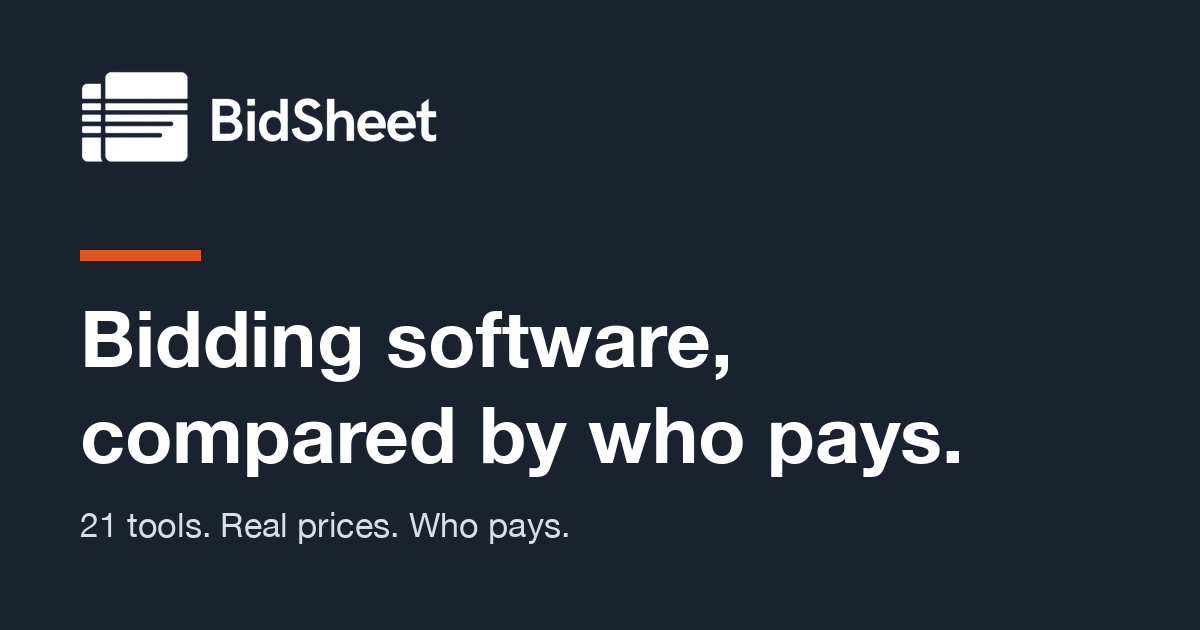
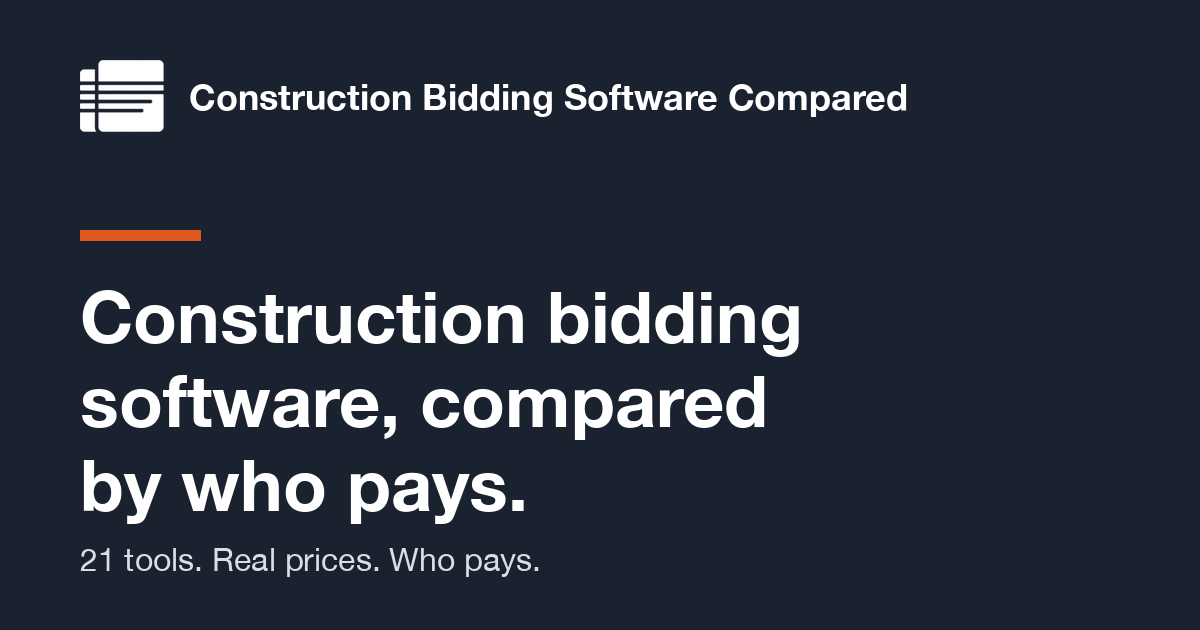
Rebrand to Construction Bidding Software Compared (matches approved domain)
Original working name BidSheet conflicts with an existing open-source
construction estimating tool. Keyword now in site name, H1 and titles.

Changed region(s): [[0.0617, 0.4524, 0.8017, 0.9048], [0.0617, 0.0905, 0.7708, 0.2714], [0.0617, 0.3619, 0.185, 0.4222]]

diff --git a/src/styles/global.css b/src/styles/global.css
@@ -37,8 +37,8 @@ a:hover { text-decoration-thickness: 2px; }
 
 .site-header { background: var(--card); border-bottom: 1px solid var(--line); }
 .site-header .wrap { display: flex; align-items: center; justify-content: space-between; gap: 16px; padding-top: 14px; padding-bottom: 14px; flex-wrap: wrap; }
-.brand { display: flex; align-items: center; gap: 10px; font-weight: 800; font-size: 1.25rem; color: var(--ink); text-decoration: none; }
-.brand img { display: block; height: 40px; width: auto; }
+.brand { display: flex; align-items: center; gap: 10px; font-weight: 800; font-size: 1.05rem; line-height: 1.2; color: var(--ink); text-decoration: none; }
+.brand img { display: block; height: 28px; width: auto; }
 .nav { display: flex; gap: 18px; flex-wrap: wrap; font-size: 0.95rem; }
 .nav a { color: var(--ink); text-decoration: none; padding: 4px 0; border-bottom: 2px solid transparent; }
 .nav a:hover { border-bottom-color: var(--accent); }

diff --git a/src/lib/site.ts b/src/lib/site.ts
@@ -1,6 +1,6 @@
-// Working brand name. The domain is not chosen yet; this and the tagline are
+// Brand name, matched to the approved domain constructionbiddingsoftwarecompared.com. This and the tagline are
 // the only places the brand appears in code, so renaming is a one-file change.
-export const SITE_NAME = 'BidSheet';
+export const SITE_NAME = 'Construction Bidding Software Compared';
 export const TAGLINE = 'Construction bidding software, compared by who pays.';
 export const SITE_DESCRIPTION =
   'Prices, who pays and when to skip each tool: 21 bid management, takeoff and estimating products for general contractors and subcontractors.';
